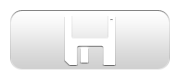
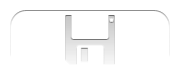
还是不满意，又调整了一下。

diff --git a/SocialFusion/Class/NewFeedTempImageView.m b/SocialFusion/Class/NewFeedTempImageView.m
@@ -64,7 +64,7 @@
         [_saveButton setImage:[UIImage imageNamed:@"btn_tmp_pic_save@2x.png"] forState:UIControlStateNormal];
         [_saveButton addTarget:self action:@selector(saveImage) forControlEvents:UIControlEventTouchUpInside];
         [self addSubview:_saveButton];
-        self.backgroundColor=[UIColor colorWithRed:0 green:0 blue:0 alpha:0.7];
+        self.backgroundColor=[UIColor colorWithRed:0 green:0 blue:0 alpha:0.8f];
     }
     return self;
 }
